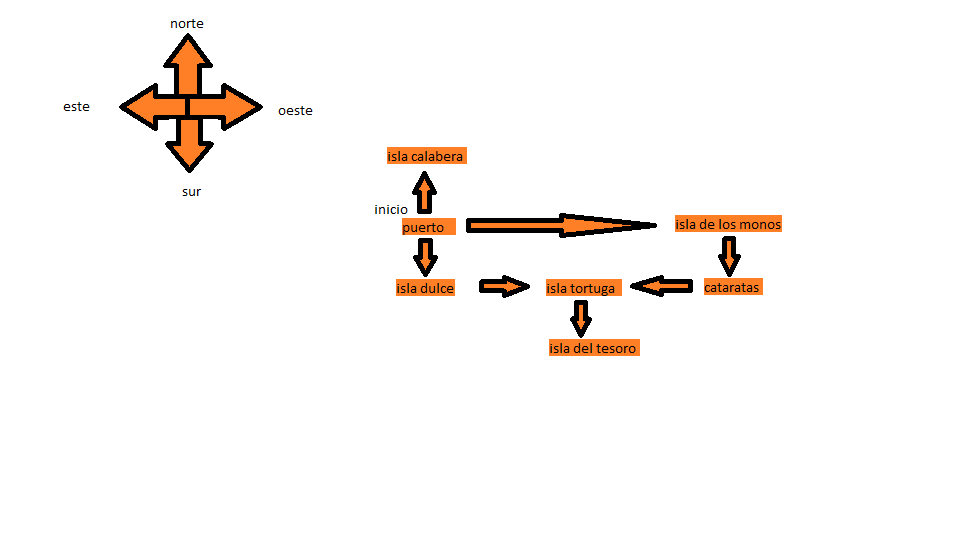
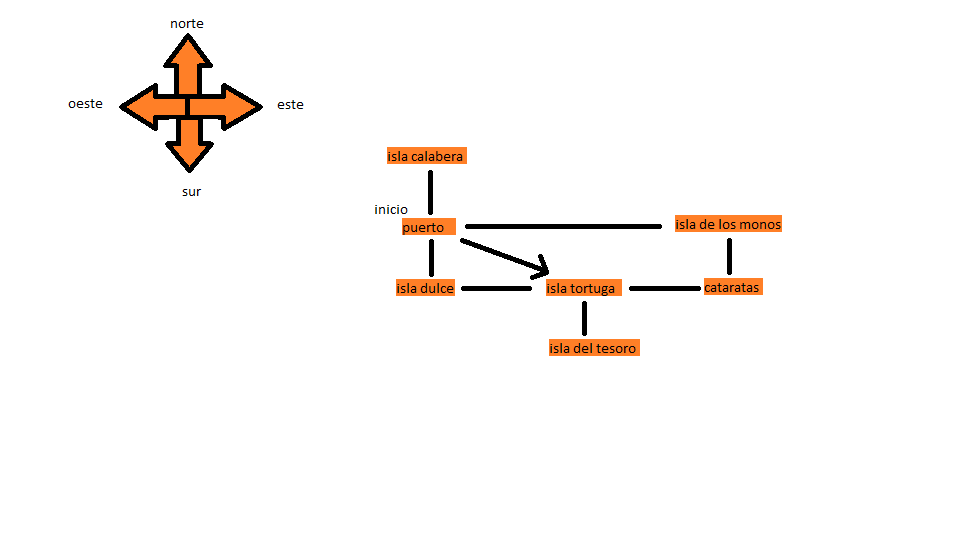
commit 04 anadido suroeste y corregidas las cardinalidades

diff --git a/Game.java b/Game.java
@@ -46,13 +46,13 @@ public class Game
         islaTesoro = new Room("en a la isla del tesoro");
 
         // initialise room exits
-        puerto.setExits(islaCalabera, null, islaDulce, islaMonos);
-        islaCalabera.setExits(null, null, puerto, null);        
-        islaMonos.setExits(null, puerto, cataratas, null);
-        cataratas.setExits(islaMonos, islaTortuga, null, null);
-        islaDulce.setExits(puerto, null, null, islaTortuga);
-        islaTortuga.setExits(null, islaDulce, islaTesoro, cataratas);
-        islaTesoro.setExits(islaTortuga, null, null, null);
+        puerto.setExits(islaCalabera, islaMonos, islaDulce, null, islaTortuga);
+        islaCalabera.setExits(null, null, puerto, null, null);        
+        islaMonos.setExits(null, null, cataratas, puerto, null);
+        cataratas.setExits(islaMonos, null, null, islaTortuga, null);
+        islaDulce.setExits(puerto, null, null, islaTortuga, null);
+        islaTortuga.setExits(null, islaDulce, islaTesoro, cataratas, null);
+        islaTesoro.setExits(islaTortuga, null, null, null, null);
 
         currentRoom = puerto;  // start game in puerto
     }

diff --git a/Room.java b/Room.java
@@ -19,6 +19,7 @@ public class Room
     public Room southExit;
     public Room eastExit;
     public Room westExit;
+    public Room southeastExit;
 
     /**
      * Create a room described "description". Initially, it has
@@ -38,8 +39,9 @@ public class Room
      * @param east The east east.
      * @param south The south exit.
      * @param west The west exit.
+     * * @param west The southwest exit.
      */
-    public void setExits(Room north, Room east, Room south, Room west) 
+    public void setExits(Room north, Room east, Room south, Room west, Room southeast) 
     {
         if(north != null)
             northExit = north;
@@ -49,6 +51,8 @@ public class Room
             southExit = south;
         if(west != null)
             westExit = west;
+        if(southeast != null)
+            southeastExit = southeast;
     }
 
     /**
